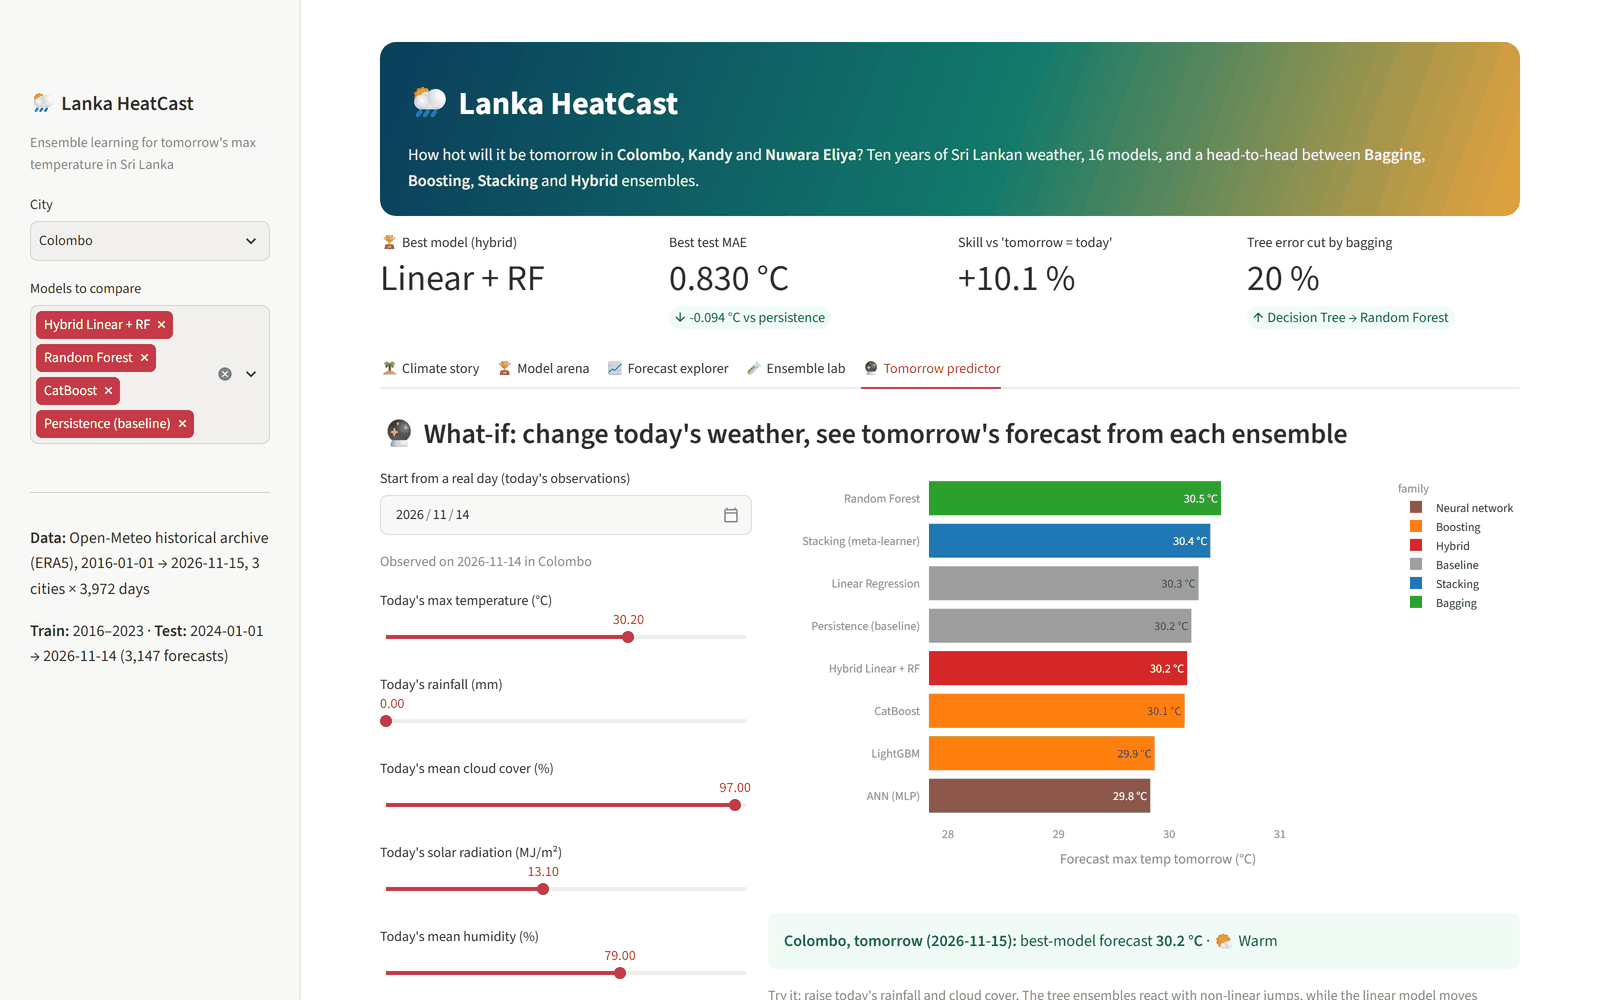
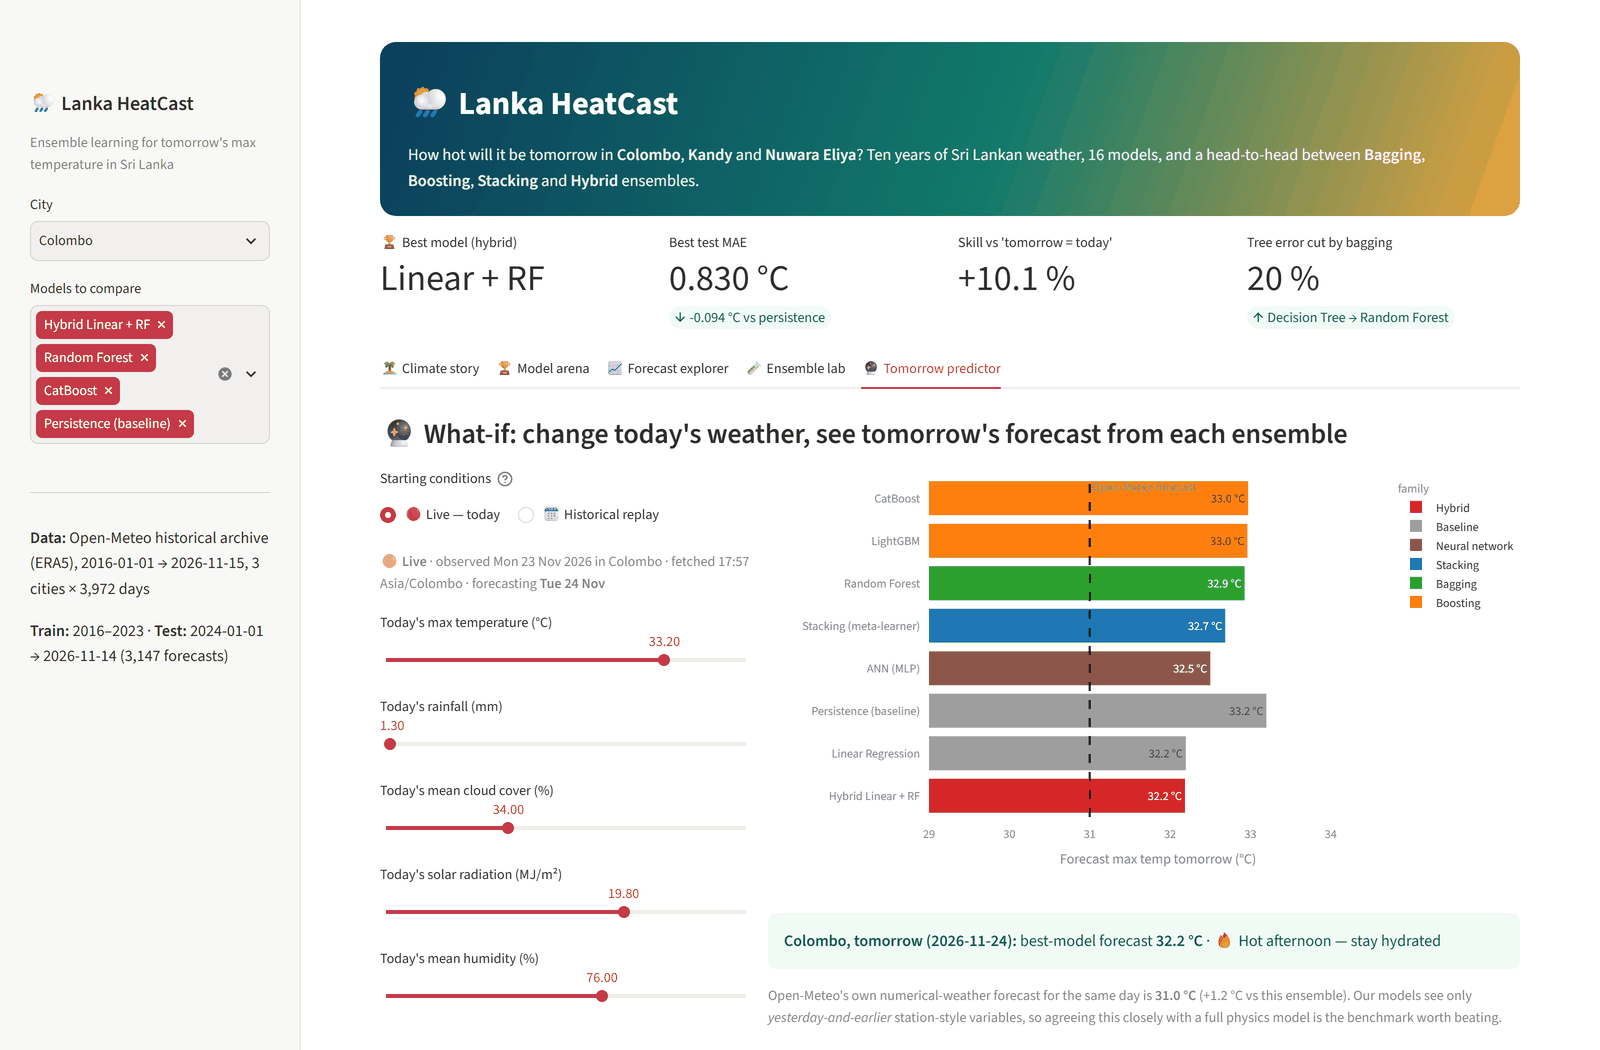
Add live mode to the Tomorrow predictor
- Fetch today's weather per city from the Open-Meteo forecast API and rebuild
  all 57 model features on the fly, reusing the notebook's exact engineering
- Draw Open-Meteo's own NWP forecast as a benchmark line for the same day
- Fall back to historical replay if the API is unreachable; results cached 30 min
- Fix reference-line suppression: compare sliders against their rounded defaults
  instead of raw observations, which also repairs the historical 'actual' line
- Move requests to the runtime dependency block

diff --git a/app.py b/app.py
@@ -54,6 +54,89 @@ def load_models():
     return joblib.load(ART / "models.joblib")
 
 
+# ---------------- Live mode: fetch today's weather from Open-Meteo ----------------
+OM_VARS = ["temperature_2m_mean", "temperature_2m_max", "temperature_2m_min", "precipitation_sum",
+           "relative_humidity_2m_mean", "wind_speed_10m_max", "shortwave_radiation_sum",
+           "surface_pressure_mean", "cloud_cover_mean"]
+SHORT = {"temperature_2m_max": "tmax", "temperature_2m_mean": "tmean", "temperature_2m_min": "tmin",
+         "precipitation_sum": "rain", "relative_humidity_2m_mean": "rh", "cloud_cover_mean": "cloud",
+         "shortwave_radiation_sum": "rad", "wind_speed_10m_max": "wind", "surface_pressure_mean": "pres"}
+MONSOON = {12: "NE monsoon", 1: "NE monsoon", 2: "NE monsoon", 3: "1st inter-monsoon", 4: "1st inter-monsoon",
+           5: "SW monsoon", 6: "SW monsoon", 7: "SW monsoon", 8: "SW monsoon", 9: "SW monsoon",
+           10: "2nd inter-monsoon", 11: "2nd inter-monsoon"}
+
+
+@st.cache_data(ttl=1800, show_spinner=False)
+def fetch_live(city: str):
+    """Pull the last ~60 days of daily weather for `city` from Open-Meteo and build one
+    feature row for *today*, using exactly the notebook's feature engineering.
+
+    Returns (X_row, base, info) where X_row is a 1-row DataFrame in meta["features"] order,
+    base is the Series of today's observations, and info carries the NWP reference forecast.
+    """
+    import requests
+    lat, lon, _ = CITY_INFO[city]
+    r = requests.get("https://api.open-meteo.com/v1/forecast", timeout=30, params=dict(
+        latitude=lat, longitude=lon, daily=",".join(OM_VARS),
+        timezone="Asia/Colombo", past_days=61, forecast_days=2))
+    r.raise_for_status()
+    j = r.json()
+    g = pd.DataFrame(j["daily"]).rename(columns={"time": "date"})
+    g["date"] = pd.to_datetime(g["date"])
+    g = g.sort_values("date").reset_index(drop=True)
+    g[OM_VARS] = g[OM_VARS].astype(float)
+
+    # "today" = the last day Open-Meteo reports as current rather than forecast
+    today = pd.Timestamp(j.get("current_weather", {}).get("time", g.date.iloc[-2])).normalize()
+    if today not in set(g.date):
+        today = g.date.iloc[-2]
+    nwp_row = g[g.date == today + pd.Timedelta(days=1)]
+    nwp_tomorrow = float(nwp_row.temperature_2m_max.iloc[0]) if not nwp_row.empty else None
+
+    hist = g[g.date <= today].copy()          # features must not see the future
+    if len(hist) < 31:
+        raise RuntimeError("Open-Meteo returned too little history to build 30-day features.")
+
+    # --- identical to make_features() in the notebook ---
+    for v, sh in SHORT.items():
+        hist[f"{sh}_lag0"] = hist[v]
+        for L in (1, 2, 6):
+            hist[f"{sh}_lag{L}"] = hist[v].shift(L)
+    for w in (3, 7, 30):
+        hist[f"tmax_roll{w}"] = hist["temperature_2m_max"].rolling(w).mean()
+    hist["tmax_std7"] = hist["temperature_2m_max"].rolling(7).std()
+    hist["rain_sum7"] = hist["precipitation_sum"].rolling(7).sum()
+    hist["rh_roll7"] = hist["relative_humidity_2m_mean"].rolling(7).mean()
+    hist["cloud_roll3"] = hist["cloud_cover_mean"].rolling(3).mean()
+    hist["pres_change"] = hist["surface_pressure_mean"].diff()
+    hist["tmax_change"] = hist["temperature_2m_max"].diff()
+    hist["dtr"] = hist["temperature_2m_max"] - hist["temperature_2m_min"]
+    doy = hist.date.dt.dayofyear
+    hist["doy_sin"] = np.sin(2 * np.pi * doy / 365.25)
+    hist["doy_cos"] = np.cos(2 * np.pi * doy / 365.25)
+    hist["month"] = hist.date.dt.month
+    hist["elevation"] = float(j.get("elevation", 0.0))
+
+    cur = hist.iloc[[-1]].copy()
+    for s in ("1st inter-monsoon", "2nd inter-monsoon", "NE monsoon", "SW monsoon"):
+        cur[f"ssn_{s}"] = int(MONSOON[int(cur.month.iloc[0])] == s)
+    for c in CITY_INFO:
+        cur[f"city_{c}"] = int(c == city)
+
+    missing = [f for f in meta["features"] if f not in cur.columns]
+    if missing:
+        raise RuntimeError(f"Live feature build is missing: {missing}")
+    X = cur[meta["features"]].astype(float)
+    if X.isna().any().any():
+        bad = X.columns[X.isna().any()].tolist()
+        raise RuntimeError(f"Live features contain NaN: {bad}")
+
+    base = cur.iloc[0]
+    info = dict(date=today, nwp_tomorrow=nwp_tomorrow,
+                fetched=pd.Timestamp.now(tz="Asia/Colombo"), elevation=float(j.get("elevation", 0.0)))
+    return X.reset_index(drop=True), base, info
+
+
 lb, per_city, season, preds, fimp, bcurve, tfeat, wdaily, meta = load()
 MODELS = [m for m in lb.index]
 best = lb.index[0]
@@ -254,19 +337,40 @@ with tab5:
         st.stop()
     tc = tfeat[tfeat.city == city].sort_values("date")
     c1, c2 = st.columns([1, 2])
+    live_info = None
     with c1:
-        day = st.date_input("Start from a real day (today's observations)", value=tc.date.max().date(),
-                            min_value=tc.date.min().date(), max_value=tc.date.max().date())
-        row = tc[tc.date.dt.date == day]
-        if row.empty:
-            row = tc.iloc[[-1]]
-        base = row.iloc[0]
-        st.caption(f"Observed on {base.date.date()} in {city}")
-        tmax = st.slider("Today's max temperature (°C)", 10.0, 40.0, float(round(base.tmax_lag0, 1)), 0.1)
-        rain = st.slider("Today's rainfall (mm)", 0.0, 150.0, float(round(base.rain_lag0, 1)), 0.5)
-        cloud = st.slider("Today's mean cloud cover (%)", 0.0, 100.0, float(round(base.cloud_lag0)), 1.0)
-        rad = st.slider("Today's solar radiation (MJ/m²)", 0.0, 30.0, float(round(base.rad_lag0, 1)), 0.1)
-        rh = st.slider("Today's mean humidity (%)", 40.0, 100.0, float(round(base.rh_lag0)), 1.0)
+        mode = st.radio("Starting conditions", ["🔴 Live — today", "🗓 Historical replay"],
+                        horizontal=True, key="wi_mode",
+                        help="Live pulls today's actual weather from Open-Meteo. "
+                             "Historical replays any day in the 2024–2026 test period.")
+        if mode.startswith("🔴"):
+            try:
+                with st.spinner(f"Fetching today's weather for {city}…"):
+                    row, base, live_info = fetch_live(city)
+            except Exception as e:
+                st.warning(f"Live fetch failed ({e}). Falling back to the latest historical day.")
+                row, base, live_info = tc.iloc[[-1]], tc.iloc[-1], None
+            if live_info:
+                st.caption(f"🔴 **Live** · observed {live_info['date']:%a %d %b %Y} in {city} · "
+                           f"fetched {live_info['fetched']:%H:%M} Asia/Colombo · "
+                           f"forecasting **{live_info['date'] + pd.Timedelta(days=1):%a %d %b}**")
+        else:
+            day = st.date_input("Start from a real day (today's observations)", value=tc.date.max().date(),
+                                min_value=tc.date.min().date(), max_value=tc.date.max().date())
+            row = tc[tc.date.dt.date == day]
+            if row.empty:
+                row = tc.iloc[[-1]]
+            base = row.iloc[0]
+            st.caption(f"Observed on {base.date.date()} in {city}")
+        # slider defaults are rounded, so "has the user touched anything?" must compare
+        # against these defaults, not against the raw (unrounded) observations
+        d_tmax, d_rain = float(round(base.tmax_lag0, 1)), float(round(base.rain_lag0, 1))
+        d_cloud, d_rad, d_rh = float(round(base.cloud_lag0)), float(round(base.rad_lag0, 1)), float(round(base.rh_lag0))
+        tmax = st.slider("Today's max temperature (°C)", 10.0, 40.0, d_tmax, 0.1)
+        rain = st.slider("Today's rainfall (mm)", 0.0, 150.0, d_rain, 0.5)
+        cloud = st.slider("Today's mean cloud cover (%)", 0.0, 100.0, d_cloud, 1.0)
+        rad = st.slider("Today's solar radiation (MJ/m²)", 0.0, 30.0, d_rad, 0.1)
+        rh = st.slider("Today's mean humidity (%)", 40.0, 100.0, d_rh, 1.0)
     X = row[meta["features"]].copy().astype(float)
     dT, dR, dC = tmax - base.tmax_lag0, rain - base.rain_lag0, cloud - base.cloud_lag0
     X["tmax_lag0"] = tmax
@@ -284,7 +388,7 @@ with tab5:
     out["Stacking (meta-learner)"] = float(M["meta"].predict(pd.DataFrame([out])[list(meta["stack_weights"])])[0])
     out["Hybrid Linear + RF"] = float(M["Linear Regression"].predict(X)[0] + M["Linear+RF residual"].predict(X)[0] + lag[0])
     out["Persistence (baseline)"] = float(tmax)
-    actual = preds[(preds.city == city) & (preds.date == base.date)]
+    actual = preds[(preds.city == city) & (preds.date == base.date)] if live_info is None else preds.iloc[0:0]
     with c2:
         o = pd.Series(out).sort_values().reset_index()
         o.columns = ["model", "forecast"]
@@ -292,13 +396,28 @@ with tab5:
         o["family"] = o.model.map(fam_map).fillna("Hybrid")
         fig = px.bar(o, x="forecast", y="model", color="family", orientation="h", color_discrete_map=FAM_COLORS,
                      text=o.forecast.map(lambda v: f"{v:.1f} °C"), labels={"forecast": "Forecast max temp tomorrow (°C)", "model": ""})
-        if not actual.empty and abs(dT) + abs(dR) + abs(dC) < 1e-6 and abs(rad - base.rad_lag0) < 0.05 and abs(rh - base.rh_lag0) < 0.5:
+        untouched = (tmax == d_tmax and rain == d_rain and cloud == d_cloud
+                     and rad == d_rad and rh == d_rh)
+        if not actual.empty and untouched:
             fig.add_vline(x=float(actual.target.iloc[0]), line_dash="dash", line_color="black", annotation_text="actual")
-        fig.update_layout(height=430, xaxis_range=[min(o.forecast.min(), tmax) - 2, max(o.forecast.max(), tmax) + 1.5], margin=dict(t=10))
+        elif live_info is not None and live_info.get("nwp_tomorrow") is not None and untouched:
+            fig.add_vline(x=float(live_info["nwp_tomorrow"]), line_dash="dash", line_color="black",
+                          annotation_text="Open-Meteo forecast")
+        ref = [float(actual.target.iloc[0])] if (not actual.empty and untouched) else []
+        if live_info is not None and live_info.get("nwp_tomorrow") is not None and untouched:
+            ref.append(float(live_info["nwp_tomorrow"]))
+        lo = min([o.forecast.min(), tmax] + ref) - 2
+        hi = max([o.forecast.max(), tmax] + ref) + 1.5
+        fig.update_layout(height=430, xaxis_range=[lo, hi], margin=dict(t=10))
         st.plotly_chart(fig, use_container_width=True)
         hyb = out["Hybrid Linear + RF"]
         heat = "🔥 Hot afternoon — stay hydrated" if hyb >= 32 else ("🌤 Warm" if hyb >= 26 else ("🌥 Mild" if hyb >= 20 else "🧥 Cool highland day"))
         st.success(f"**{city}, tomorrow ({(base.date + pd.Timedelta(days=1)).date()}):** best-model forecast **{hyb:.1f} °C** · {heat}")
+        if live_info is not None and live_info.get("nwp_tomorrow") is not None:
+            nwp = float(live_info["nwp_tomorrow"])
+            st.caption(f"Open-Meteo's own numerical-weather forecast for the same day is **{nwp:.1f} °C** "
+                       f"({hyb - nwp:+.1f} °C vs this ensemble). Our models see only *yesterday-and-earlier* "
+                       f"station-style variables, so agreeing this closely with a full physics model is the benchmark worth beating.")
         st.caption("Try it: raise today's rainfall and cloud cover. The tree ensembles react with non-linear jumps, "
                    "while the linear model moves smoothly. That difference is why the hybrid works.")
 

diff --git a/README.md b/README.md
@@ -11,6 +11,7 @@ Forecasting **tomorrow's maximum temperature** for **Colombo, Kandy and Nuwara E
 |---|---|
 | **Data** | Open-Meteo Historical Weather API (ERA5 reanalysis), daily, 2016-01-01 → 2026-11-15, 3 cities × 3,972 days, 9 variables (`data/`) |
 | **Target** | Next-day maximum 2 m temperature (°C) |
+| **Live mode** | The dashboard can fetch today's weather from the Open-Meteo forecast API and predict a real tomorrow, benchmarked against Open-Meteo's own physics forecast (cached 30 min; falls back to historical replay if the API is unreachable) |
 | **Split** | Train 2016–2023 · Test 2024-01-01 → 2026-11-14 (chronological, 3,147 forecasts) |
 | **Bagging** | Bagged Trees, Random Forest, Extra Trees |
 | **Boosting** | AdaBoost, Gradient Boosting, LightGBM, CatBoost |
@@ -42,13 +43,17 @@ How bagging drives variance down as estimators are added, plus feature importanc
 ![Ensemble lab](docs/screenshots/ensemble-lab.png)
 
 ### 🔮 Tomorrow predictor
-What-if sliders: change today's observations and watch every ensemble re-forecast tomorrow's maximum.
+Two modes. **🔴 Live** pulls today's actual weather for the selected city straight from the Open-Meteo
+forecast API, rebuilds all 57 features on the fly and predicts a genuine tomorrow — with Open-Meteo's own
+numerical-weather forecast drawn in as a dashed benchmark. **🗓 Historical replay** reruns any day in the
+2024–2026 test period. In either mode the what-if sliders let you change today's observations and watch
+every ensemble re-forecast.
 
 ![Tomorrow predictor](docs/screenshots/tomorrow-predictor.png)
 
 ## Files
 * `Ensemble_Weather_SriLanka.ipynb`: the full, executed pipeline (EDA → features → models → evaluation → interpretation). Running it re-creates `artifacts/`.
-* `app.py`: Streamlit dashboard with 5 tabs: Climate story · Model arena · Forecast explorer · Ensemble lab · Tomorrow predictor (what-if).
+* `app.py`: Streamlit dashboard with 5 tabs: Climate story · Model arena · Forecast explorer · Ensemble lab · Tomorrow predictor (live forecast + what-if).
 * `artifacts/`: leaderboard, predictions, feature importances and trained models used by the dashboard.
 * `data/sri_lanka_weather_2016_2026.csv`: the dataset. If it is missing, the notebook downloads it again from Open-Meteo.
 
